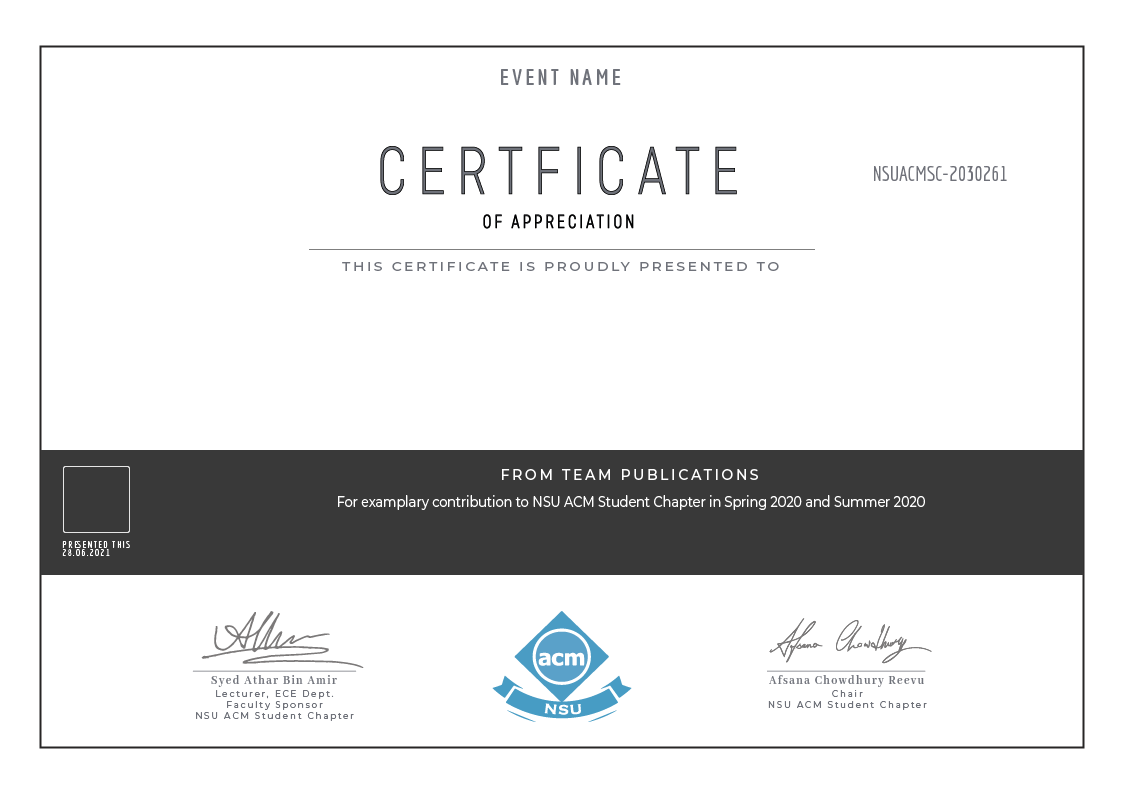
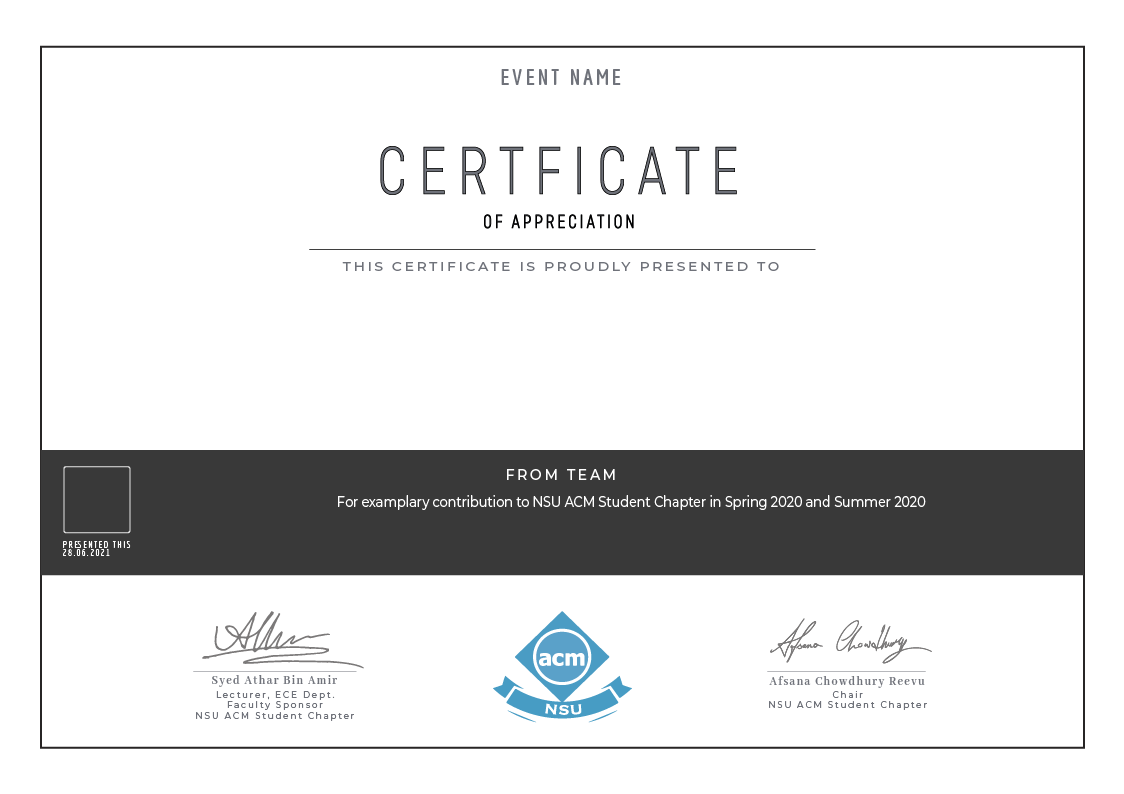
functional yet...

diff --git a/src/main/java/Main.java b/src/main/java/Main.java
@@ -1,3 +1,10 @@
+import com.google.zxing.BarcodeFormat;
+import com.google.zxing.WriterException;
+import com.google.zxing.client.j2se.MatrixToImageWriter;
+import com.google.zxing.common.BitMatrix;
+import com.google.zxing.qrcode.QRCodeWriter;
+
+import java.text.DecimalFormat;
 import java.util.*;
 import java.io.*;
 import java.awt.*;
@@ -10,6 +17,7 @@ class Info {
     public int x = 0, y = 0, width = 0, height = 0, size = 0;
     public Color color = Color.black;
     public String font = "Arial";
+    public String text = null;
 }
 
 class Data {
@@ -27,10 +35,10 @@ class Data {
 }
 
 public class Main {
-    private static int totalCreated = 0;
+    private static int totalCreated = 1;
     private static int totalInClass = 0;
     private static String imgPath, infoPath, imageType;
-    private static Info teamInfo = new Info(), quoteInfo = new Info(), nameInfo = new Info();
+    private static Info serialInfo = new Info(), barcodeInfo = new Info(), teamInfo = new Info(), quoteInfo = new Info(), nameInfo = new Info();
     private static ArrayList<Data> datas = new ArrayList<>();
 
     public static void main(String[] args) {
@@ -51,6 +59,8 @@ public class Main {
         try {
             Scanner sc = new Scanner(new FileReader(infoPath));
             imageMain = ImageIO.read(new File(imgPath));
+            qrCodeWriter = new QRCodeWriter();
+
             boolean hasInformation = false;
             while (sc.hasNextLine()) {
                 String str = sc.nextLine();
@@ -85,17 +95,22 @@ public class Main {
                         case 'h' -> info.height = Integer.parseInt(arr[i].substring(1));
                         case 's' -> info.size = Integer.parseInt(arr[i].substring(1));
                         case 'f' -> info.font = arr[i].substring(1).replaceAll("_", " ");
+                        case 't' -> info.text = arr[i].substring(1).replaceAll("_", " ");
                         case '#' -> info.color = Color.decode(arr[i]);
                         default -> System.err.println("Error at:" + arr[i]);
                     }
             }
-
         }
         c = Character.toLowerCase(str.charAt(1));
         switch (c) {
             case 't' -> teamInfo = info;
             case 'q' -> quoteInfo = info;
             case 'n' -> nameInfo = info;
+            case 'b' -> barcodeInfo = info;
+            case 's' -> {
+                serialInfo = info;
+                canHoldInSerial = at(serialInfo.text);
+            }
         }
     }
 
@@ -116,7 +131,27 @@ public class Main {
             }
         }
         return 0;
+    }
 
+    public static int canHoldInSerial;
+
+    private static int at(String str) {
+        int at = str.length() - 1;
+        for (int i = at; str.charAt(i) == '#'; i--) {
+            at = i;
+        }
+        return at;
+    }
+
+    public static String serial(int n) {
+        String str = serialInfo.text;
+        int gap = str.length() - canHoldInSerial;
+        int len = (n + "").length();
+        if (len < gap) {
+            return str.substring(0, canHoldInSerial) + "0".repeat(len) + n;
+        } else {
+            return str.substring(0, canHoldInSerial) + n;
+        }
 
     }
 
@@ -146,12 +181,12 @@ public class Main {
             }
         } else {
             System.out.println(++totalInClass + ", " + str);
-            totalCreated++;
             datas.add(new Data(currentData.team, currentData.quote, str));
         }
     }
 
     static BufferedImage imageMain;
+    static QRCodeWriter qrCodeWriter;
 
     public static void createImage() {
         ExecutorService executorService = Executors.newCachedThreadPool();
@@ -195,9 +230,45 @@ public class Main {
                     g.drawString(text, nameInfo.x - (int) textWidth / 2, nameInfo.y + (int) textHeight / 2);
                     g.dispose();
                 }
+
+                if (serialInfo.text != null) {
+                    Graphics2D g = (Graphics2D) image.getGraphics();
+                    g.setFont(new Font(serialInfo.font, Font.PLAIN, serialInfo.size));
+                    g.setColor(serialInfo.color);
+                    String text = serial(totalCreated);
+                    TextLayout textLayout = new TextLayout(text, g.getFont(), g.getFontRenderContext());
+                    double textHeight = textLayout.getBounds().getHeight(), textWidth = textLayout.getBounds().getWidth();
+                    g.setRenderingHint(RenderingHints.KEY_TEXT_ANTIALIASING, RenderingHints.VALUE_TEXT_ANTIALIAS_LCD_HRGB);
+                    g.drawString(text, serialInfo.x - (int) textWidth / 2, serialInfo.y + (int) textHeight / 2);
+
+                    g.dispose();
+                }
+
+                if (barcodeInfo.text != null) {
+                    StringBuilder sb = new StringBuilder(barcodeInfo.text);
+                    if (data.name != null) {
+                        sb.append(","+data.name);
+                    }
+                    if (data.team != null) {
+                        sb.append(","+data.team);
+                    }
+                    if (data.quote != null) {
+                        sb.append(","+data.quote);
+                    }
+                    if (barcodeInfo.x == 0 || barcodeInfo.y == 0 || barcodeInfo.height == 0 || barcodeInfo.width == 0) {
+                        exit("Barcode Problem");
+                    }
+
+                    BufferedImage bufferedImage = qrCodeImage(sb.toString(), barcodeInfo.width, barcodeInfo.height);
+                    Graphics2D g = (Graphics2D) image.getGraphics();
+                    g.drawImage(bufferedImage, barcodeInfo.x-(barcodeInfo.width/2), barcodeInfo.y-(barcodeInfo.height/2), null);
+                    g.dispose();
+                }
+
                 new File(data.team).mkdirs();
                 try {
                     ImageIO.write(image, imageType, new File(data.team + "\\" + data.name + "." + imageType));
+                    totalCreated++;
                 } catch (IOException e) {
                     e.printStackTrace();
                 }
@@ -206,6 +277,17 @@ public class Main {
         executorService.shutdown();
     }
 
+    public static BufferedImage qrCodeImage(String str, int width, int height) {
+
+        BitMatrix bitMatrix = null;
+        try {
+            bitMatrix = qrCodeWriter.encode(str, BarcodeFormat.QR_CODE, width, height);
+        } catch (WriterException e) {
+            e.printStackTrace();
+            exit(str);
+        }
+        return MatrixToImageWriter.toBufferedImage(bitMatrix);
+    }
 
     public static BufferedImage copyImage(BufferedImage source) {
         BufferedImage bi = new BufferedImage(source.getWidth(), source.getHeight(), source.getType());
